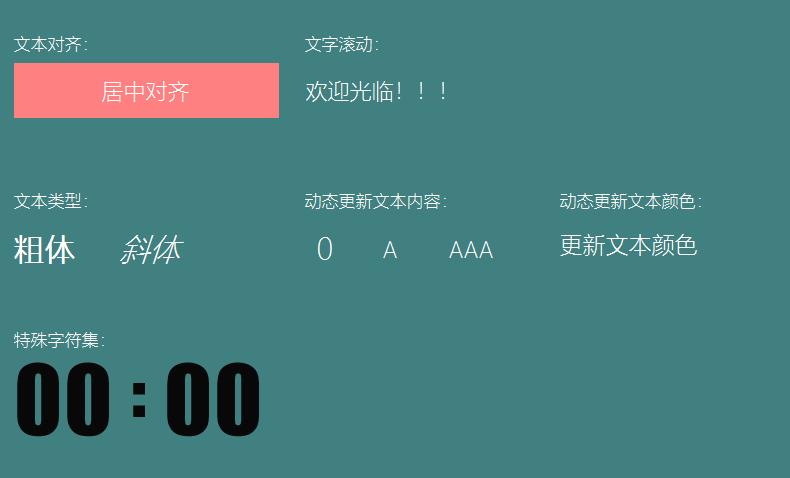
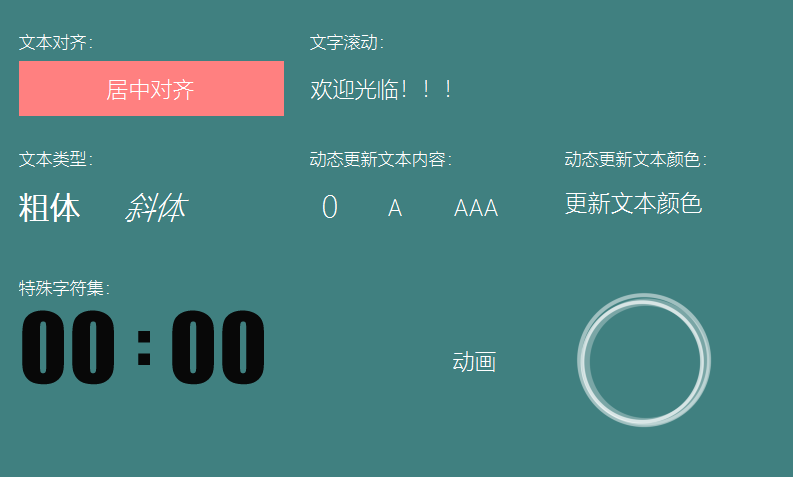
update
update

diff --git a/docs/textview.md b/docs/textview.md
@@ -8,7 +8,7 @@ layout: default
 2. 在右侧控件集合中找到`文本`控件
 3. 鼠标左键点击`文本`控件不放，然后将其拖拽到任意位置，松开左键，就能看到自动生成的文本控件。  
 
- ![创建文本](assets/textview/create_textview.gif)
+  ![创建文本](assets/textview/create_textview.gif)
 
 
 ## 如何通过代码动态更新文本内容？
@@ -82,7 +82,95 @@ static bool onButtonClick_Button1(ZKButton *pButton) {
       mTextView1->setTextColor(0xFF0000);
    ```
 
-### 样例代码
+## 实现逐帧动画
+由于文本控件可以添加背景图，我们可以利用它简单的显示一张图片。  
+更近一步，如果我们在代码中动态切换文本控件的背景图，只要切换的时间间隔够短，那么就能实现动画的效果。
+
+1. 图片资源准备  
+  一段流畅的帧动画必然需要多张图片资源。这里我们已经准备好了，共60张  
+  ![](assets/textview/resources.png)   
+
+  可以看到每张图片表示一帧，并且根据序号统一命名，这主要是方便后续使用。    
+  **注意： 系统加载图片时将消耗较多资源， 为了界面运行流畅，强烈建议图片不宜过大。 比如例子中的单张图片大小仅为5KB左右**   
+
+  将这些图片都拷贝到项目的 **resources** 目录下。你可以在 **resources** 目录下自行创建子文件夹，方便各种图片资源的整理归类。
+
+  ![](assets/textview/resources_dir.png)
+
+2. 创建文本控件  
+  在UI文件中任意创建一个文本控件。并将文本控件的背景图设置为其中一张图片。这里我将第一张图片设置为背景图。这一步仅仅是为了将文本控件的宽高自动调整为图片的宽高，你也可以选择不设置。  
+  完整属性如图：  
+  
+    ![](assets/textview/textview_properties.png)  
+
+3. 编译项目，注册定时器  
+    编译项目后，在生成的Logic.cc文件中，注册一个定时器，时间间隔设置为 50 ms。 我们利用定时器每隔50ms切换一张图片。  
+    [如何编译项目？]()  
+    [如何注册定时器？]()
+4. 动态切换文本控件的背景  
+   添加如下切换背景图的函数， 并在定时器的触发函数 `bool onUI_Timer(int id)` 中调用它。   
+   ```c++
+   static void updateAnimation(){
+        static int animationIndex = 0;
+        char path[50] = {0};
+        snprintf(path, sizeof(path), "animation/loading_%d.png", animationIndex);
+        mTextviewAnimationPtr->setBackgroundPic(path);
+        animationIndex = ++animationIndex % 60;
+   }
+   ```
+   
+    **上面的函数中有两点我们需要注意：**  
+   * **切换文本控件的背景图是由 `setBackgroundPic(char* path)` 函数实现的。**
+   * **`setBackgroundPic(char* path)`函数的参数是图片的相对路径。  该路径是相对于 项目中的 `resources` 文件夹而言的。**  
+   
+      **例如，如下图，我们的图片是放在项目中 `resources/animation/` 文件夹下，那么 loading_0.png 这张图片的相对路径为  `animation/loading_0.png`** 
+     
+     ![](assets/textview/relative_path.png)  
+     
+     `setBackgroundPic(char* path)` 函数也可以接受绝对路径。例如：如果你将图片 `example.png` 放到SD的根目录下，那么它对应的绝对路径为 `/mnt/extsd/example.png`，  其中 `/mnt/extsd/`是SD卡的挂载目录。  
+     需要的图片资源都推荐放到项目的 `resoources` 文件夹下，或者其子文件夹下，其他路径的图片资源将不会被自动打包到系统中。  
+ 
+5. [下载运行](adb_debug)，查看效果    
+6. [完整样例](#example_download)
+
+## 特殊字符集的使用  
+我们知道，根据asc码的定义，`字符 char` 与 `整形 int` 存在着对应关系。比如字符 `0` 的asc码为`48`。 特殊字符集就是将asc码映射为图片的一种功能。设置该功能后，当我们显示一个字符串时，系统会尝试将字符串中的每一个字符映射为指定的图片，最终显示一串图片到屏幕上。  
+1. 设置方法   
+
+   ![](assets/textview/special_font.png)  
+   
+   找到文本控件中的 **特殊字符集设置**， 点击右侧的 **更多**选项，将弹出特殊字符集选择框。  
+   
+   ![](assets/textview/special_font_dialog.png)  
+   
+   选择右上角的 **导入** 按键添加图片到字符集中， 添加图片后，你可以自行修改对应的asc码或者字符作为该图片的映射字符。然后点击 **保存**
+2. 如果要验证特殊字集是否添加成功，你可以修改文字，预览图上会同步预览效果。   
+   **注意：如果你设置了特殊字符集，那么系统会尝试将每个字符映射为字符集中指定的图片；如果某个字符没有设置图片的映射，那么这个字符将不会显示到屏幕上。**
+
+### 具体使用
+1. 在上面的特殊字符集设置框中，我们已经将字符 0-9 以及 : 冒号 分别映射为图片。  
+   ![](assets/textview/num.png)
+   
+   然后代码中，通过`setText(char* str)`函数设置字符串。由于我们在 TextTime 文本控件中设置了特殊字符集，所以字符都转变为了相应的图片。效果图如下： 
+ 
+   ```
+   static void updateTime() {
+	   char timeStr[20];
+	   struct tm *t = TimeHelper::getDateTime()
+	   sprintf(timeStr, "%02d:%02", t->tm_hour, t->tm_min);
+	   mTextTimePtr->setText(timeStr);
+   }
+   ```
+   ![](assets/textview/0000.png)  
+   
+   如果你只需要显示单个字符，那么可以直接设置asc码或字符，不用转化为字符串。  
+   例如：
+   ```
+   mTextTimePtr->setText((char)48); //直接设置asc码，需要转为char
+   mTextTimePtr->setText('0'); //直接设置字符
+   ```
+
+## <span id = "example_download">样例代码</span>
 由于文本控件属性较多，更多属性效果参考[样例代码](demo_download#demo_download)。   
 预览效果图： 
 
